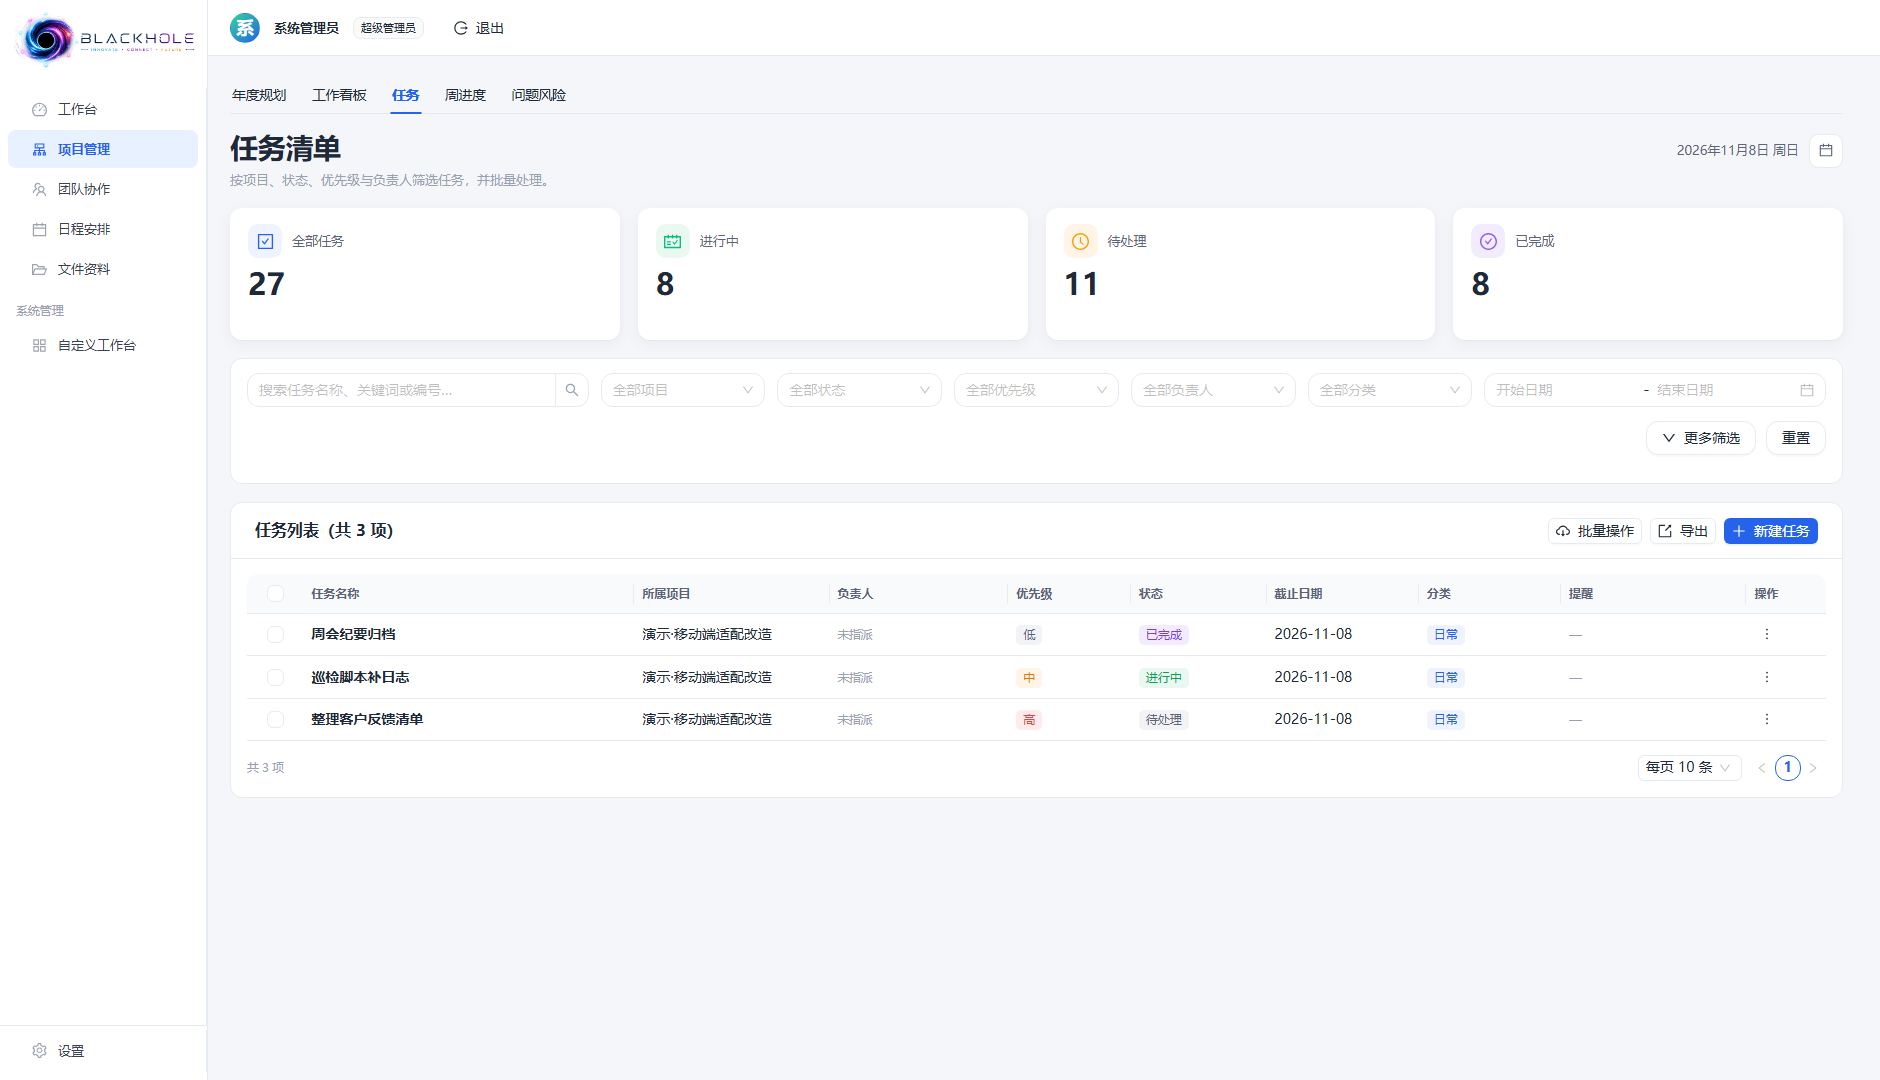
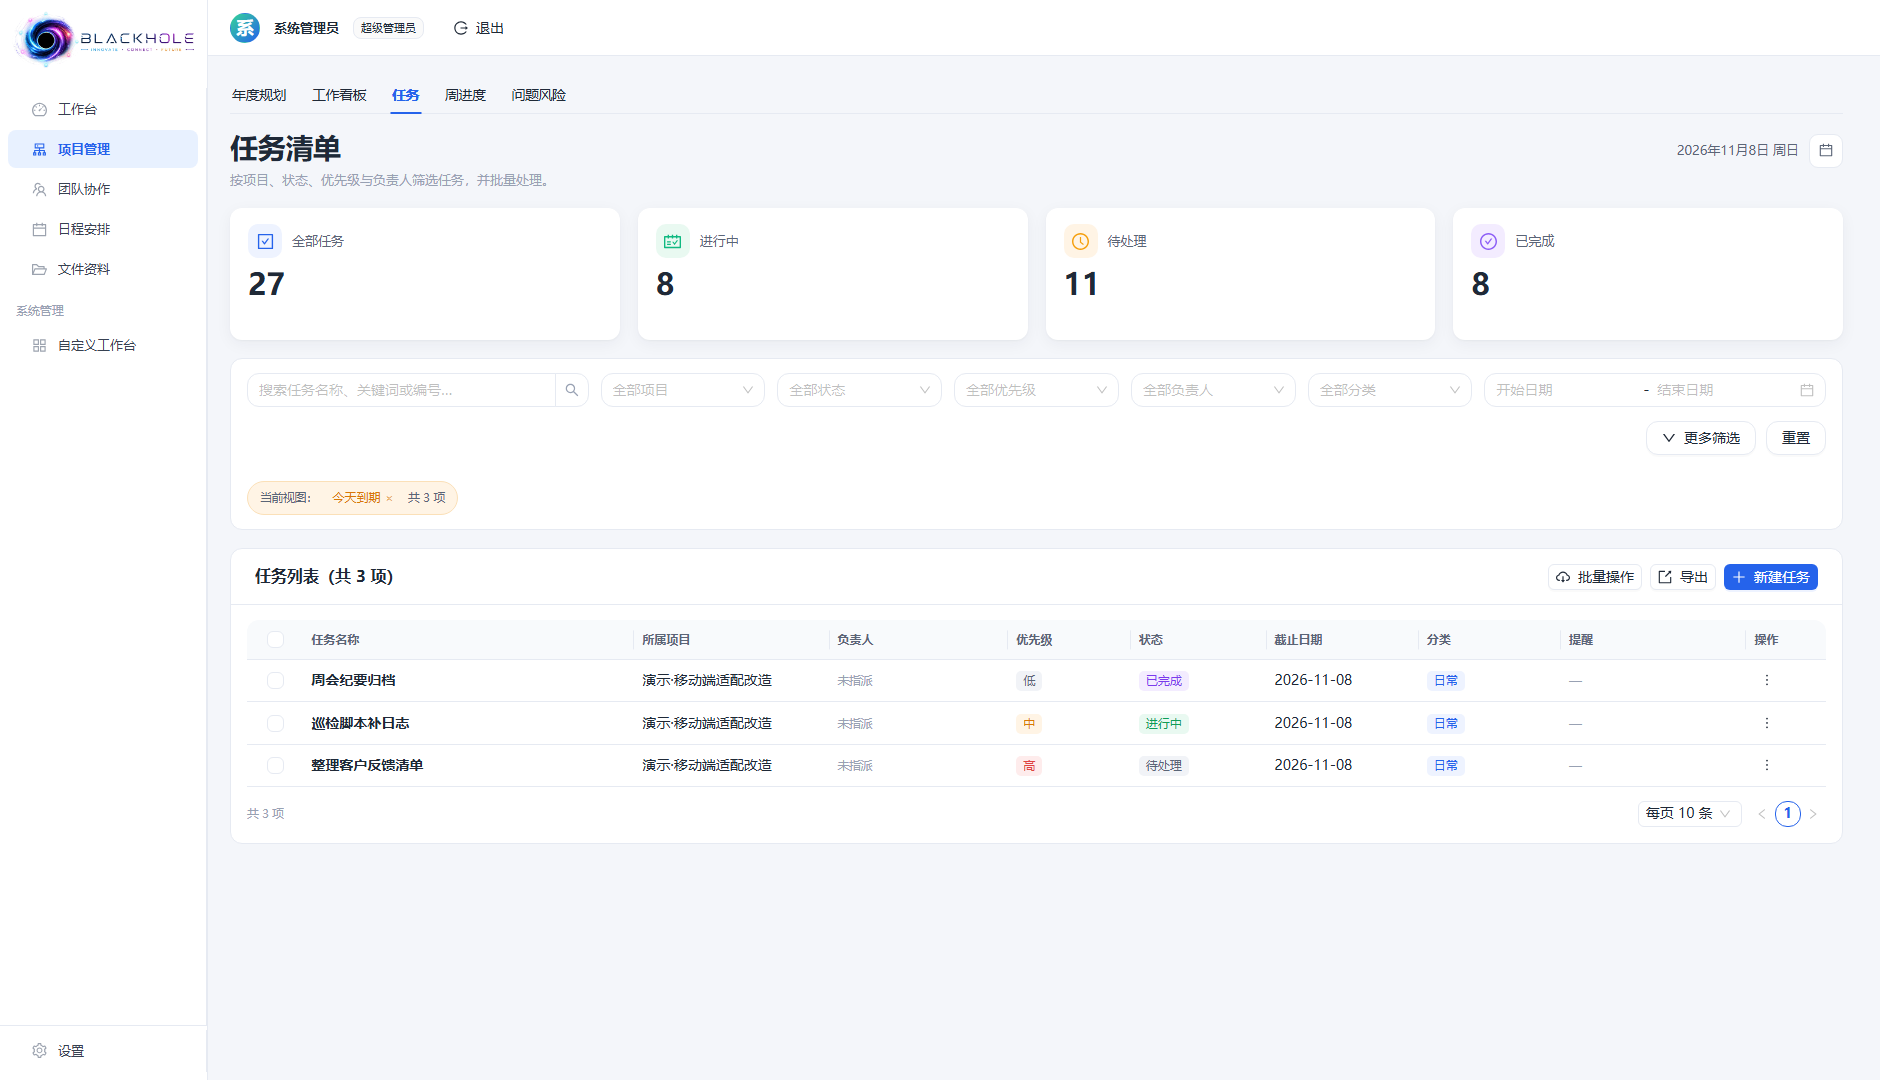
fix(tasks): 到期筛选常显可关闭标签，别让人以为「只剩 3 行」是 bug（D-25 续）
从工作台点「今日任务」进来会带 ?due=today，但筛选条上没有对应控件，
表格只显示 3 行、顶部四张卡还是全部任务口径（27/8/11/8），看着像串了。

- 筛选条下加常显标签：当前视图「今天到期」× 共 3 项，点 × 清筛选
- 清筛选同时把 URL 上的 ?due= 摘掉，否则刷新一次又被装回来
- Filters 类型补 due 字段（原来只在运行时存在，类型是漏的）
- 「已选筛选」里也把到期算进去，避免出现"暂无附加筛选"

实测：标签显示「当前视图：今天到期 × 共 3 项」，点 × 后 URL 变
/projects?view=tasks、行数 3→10、标签消失

diff --git a/apps/web/src/pages/TasksPage.tsx b/apps/web/src/pages/TasksPage.tsx
@@ -45,6 +45,16 @@ import { StateBlock } from '../components/user/StateBlock';
 import { TaskListTable } from '../components/user/TaskListTable';
 import { categoryTone } from '../components/user/visuals';
 
+/** 到期区间的中文名 —— 工作台点卡进来、或从「已选筛选」里看都用这一套 */
+const DUE_LABELS: Record<TaskDueFilter, string> = {
+  today: '今天到期',
+  overdue: '已逾期',
+  week: '本周到期',
+  month: '本月到期',
+  quarter: '本季到期',
+  year: '本年到期',
+};
+
 /**
  * 任务清单页（老六最终用户端界面 · 图3）。
  *
@@ -80,6 +90,8 @@ interface Filters {
   category?: string;
   from?: string;
   to?: string;
+  /** 到期区间：由工作台点卡（URL ?due=）带进来，筛选条上没有可视控件 */
+  due?: TaskDueFilter;
   page: number;
   pageSize: number;
 }
@@ -97,7 +109,7 @@ export function TasksPage() {
    * 从工作台点「今日任务 / 月度工作 …」进来时带 ?due=today|week|month|quarter|year，
    * 这里把它落成筛选条件（D-24）。URL 一变就同步，返回上一页再点另一张卡也能生效。
    */
-  const [searchParams] = useSearchParams();
+  const [searchParams, setSearchParams] = useSearchParams();
   const urlDue = searchParams.get('due');
   useEffect(() => {
     if (!urlDue) return;
@@ -105,6 +117,17 @@ export function TasksPage() {
     if (!allowed.includes(urlDue)) return;
     setFilters((prev) => ({ ...prev, due: urlDue as TaskDueFilter, page: 1 }));
   }, [urlDue]);
+
+  /**
+   * 清掉到期筛选 —— 同时把 URL 上的 ?due= 摘掉，
+   * 否则刷新一次又被 useEffect 装回来（用户会觉得"清不掉"）。
+   */
+  const clearDue = () => {
+    setFilters((prev) => ({ ...prev, due: undefined, page: 1 }));
+    const next = new URLSearchParams(searchParams);
+    next.delete('due');
+    setSearchParams(next, { replace: true });
+  };
   const [keywordInput, setKeywordInput] = useState('');
   const [selectedRowKeys, setSelectedRowKeys] = useState<React.Key[]>([]);
   const [moreOpen, setMoreOpen] = useState(false);
@@ -369,6 +392,21 @@ export function TasksPage() {
           </div>
         </div>
 
+        {/* 到期筛选来自 URL（工作台点卡进来），筛选条上没有对应控件，
+            所以这里必须常显一枚可关闭的标签 —— 否则用户只看到「共 3 项」却不知道为什么 */}
+        {filters.due ? (
+          <div className="wb-due-chip">
+            <span className="wb-muted">当前视图：</span>
+            <ToneTag tone="orange">
+              {DUE_LABELS[filters.due] ?? filters.due}
+              <button type="button" className="wb-due-chip-close" onClick={clearDue} aria-label="清除到期筛选">
+                ×
+              </button>
+            </ToneTag>
+            <span className="wb-muted">共 {total} 项</span>
+          </div>
+        ) : null}
+
         {moreOpen ? (
           <div
             style={{
@@ -382,6 +420,7 @@ export function TasksPage() {
             }}
           >
             <span className="wb-muted">已选筛选：</span>
+            {filters.due ? <ToneTag tone="orange">{DUE_LABELS[filters.due] ?? filters.due}</ToneTag> : null}
             {filters.keyword ? <ToneTag tone="blue">关键词：{filters.keyword}</ToneTag> : null}
             {filters.projectId ? (
               <ToneTag tone="blue">
@@ -413,7 +452,8 @@ export function TasksPage() {
                 截止：{filters.from ?? '不限'} ~ {filters.to ?? '不限'}
               </ToneTag>
             ) : null}
-            {!filters.keyword &&
+            {!filters.due &&
+            !filters.keyword &&
             !filters.projectId &&
             !filters.status &&
             !filters.priority &&

diff --git a/apps/web/src/styles/global.css b/apps/web/src/styles/global.css
@@ -1805,6 +1805,42 @@ body {
   min-width: 0;
 }
 
+/* 到期筛选常显标签（来自 URL ?due=，筛选条上没有对应控件）
+   给一层淡橙底：不加底时用户看不见，会以为"表格只剩 3 行"是 bug */
+.wb-due-chip {
+  display: inline-flex;
+  align-items: center;
+  gap: 8px;
+  flex-wrap: wrap;
+  margin-top: 12px;
+  padding: 6px 12px;
+  background: var(--soft-orange);
+  border: 1px solid #fbe0b8;
+  border-radius: 999px;
+  font-size: 12px;
+  color: var(--text-2);
+}
+
+.wb-due-chip .wb-muted {
+  color: var(--text-2);
+}
+
+.wb-due-chip-close {
+  margin-left: 5px;
+  padding: 0;
+  border: 0;
+  background: none;
+  color: inherit;
+  font-size: 13px;
+  line-height: 1;
+  cursor: pointer;
+  opacity: 0.6;
+}
+
+.wb-due-chip-close:hover {
+  opacity: 1;
+}
+
 /* 任务状态面板右侧「要注意」：逾期 / 今日到期，行本身可点 */
 .wb-status-side {
   display: flex;
@@ -1813,12 +1849,12 @@ body {
   flex: 0 0 auto;
   min-width: 150px;
   padding-left: 16px;
-  border-left: 1px solid var(--wb-line, #eef1f5);
+  border-left: 1px solid var(--border);
 }
 
 .wb-status-side-title {
   font-size: 12px;
-  color: var(--wb-text-3, #8b93a1);
+  color: var(--muted);
   margin-bottom: 4px;
 }
 
@@ -1838,19 +1874,19 @@ body {
 }
 
 .wb-status-side-row:hover {
-  background: var(--wb-hover, #f4f6fa);
+  background: var(--soft-gray);
 }
 
 .wb-status-side-label {
   font-size: 12px;
-  color: var(--wb-text-2, #5b6472);
+  color: var(--text-2);
 }
 
 .wb-status-side-value {
   font-size: 16px;
   font-weight: 600;
   font-variant-numeric: tabular-nums;
-  color: var(--wb-text-1, #1f2530);
+  color: var(--text);
 }
 
 /* 项目列表卡片行 */
